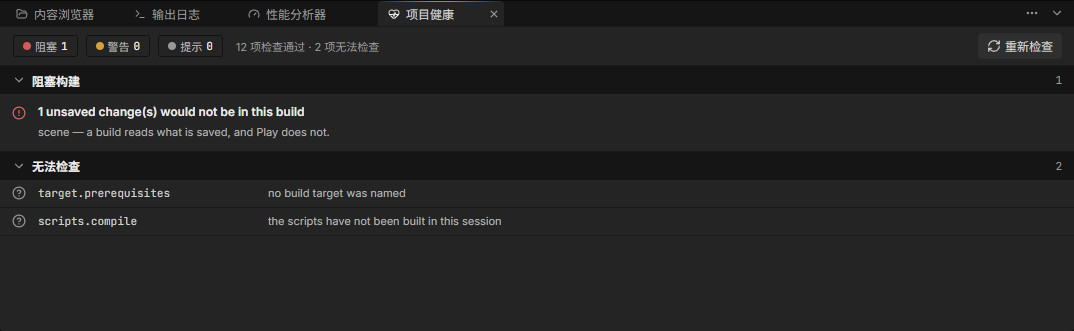
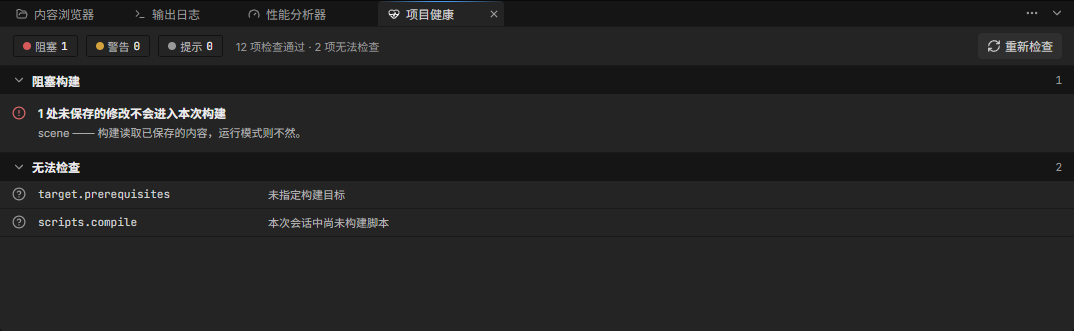
fix(editor): Project Health findings show in the editor's language

diff --git a/changelog.d/health-findings-localized.md b/changelog.d/health-findings-localized.md
@@ -1,0 +1,9 @@
+---
+section: Fixed
+commits:
+  - fix(editor): Project Health findings show in the editor's language
+---
+**Project Health speaks the editor's language.** In a Chinese editor the panel's group headings were translated but
+every finding and every "could not be checked" reason was English. Each finding now carries its sentence as a message
+key with its values, and the panel shows it in the editor's language; the report the editor MCP returns
+(`get_project_health`) keeps its English wording, so automation reads the same text whatever language the editor is in.
